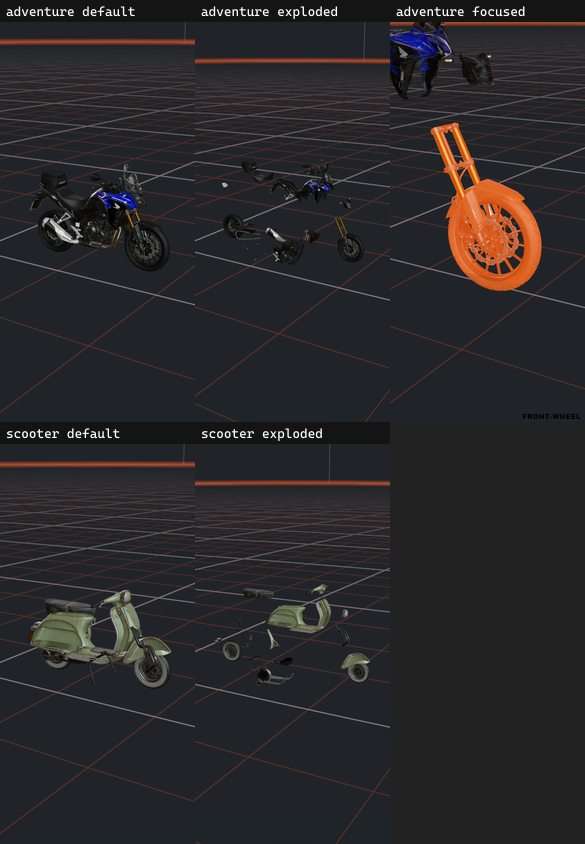
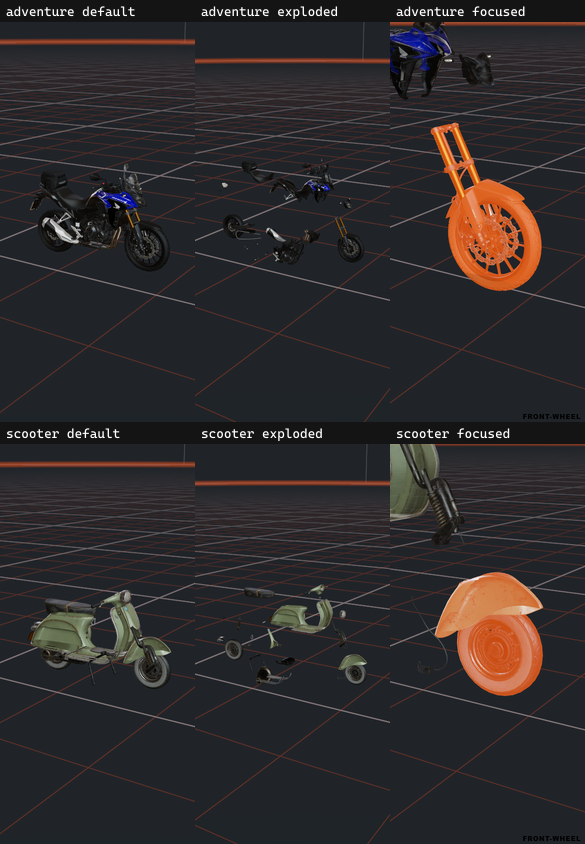
feat: exploding cruiser/touring/scooter/adventure models, 3d colours from theme tokens

diff --git a/docs/qa/3d-models.md b/docs/qa/3d-models.md
@@ -1,0 +1,269 @@
+# Replacing the four generics that could not explode — 2026-09-20
+
+`docs/qa/3d-parts.md` ends with four rows reading **1 group · no explode**: `generic/cruiser`,
+`generic/touring`, `generic/scooter`, `generic/adventure`. Those four were not a regex problem —
+the Harley Breakout was literally *one* mesh, the Vespa was seven material sweeps, and the Akt Tt
+Ds 200 had 84 good meshes and called every one of them `defaultMaterial`. No table can split
+geometry that was never split. They are replaced here, and the KTM's stray mesh is deleted.
+
+Selection rule, from `docs/qa/3d-parts.md`: **mesh count and node naming, never triangle count.**
+The measurement that decides it is "how many meshes span more than 60 % of the model" — a model
+whose meshes are all whole-bike sweeps is merged by material and cannot come apart, however many
+triangles it has.
+
+## Before → after
+
+| model | groups before | groups after | file | what it is now |
+| --- | --- | --- | --- | --- |
+| `generic/cruiser` | **1** | **18** | 0.95 → 6.67 MB | Harley EL OHV V-Twin, 429 separate meshes |
+| `generic/touring` | **1** | **14** | 4.48 → 2.17 MB | Harley Road King police bagger, 81 meshes |
+| `generic/scooter` | **1** | **15** | 1.18 → 1.66 MB | Vespa with a fully named node tree, 131 meshes |
+| `generic/adventure` | **1** | **13** | 0.93 → 3.13 MB | Honda CB500X, 121 meshes with Honda part names |
+| `generic/supermoto` | 14 | 14 | 0.41 → 0.38 MB | unchanged count; the stray mesh is gone, see below |
+
+Nothing else moved. `model-check --summary` for all 14 shipped models after the pass:
+
+```
+  yzf-2021              16      generic/enduro        10
+  honda-cbr650r         14      generic/motocross     14
+  corvette-c8           15      generic/naked         18
+  generic/adventure     13      generic/scooter       15
+  generic/car            7      generic/sportbike     19
+  generic/classic        4      generic/supermoto     14
+  generic/cruiser       18      generic/touring       14
+```
+
+`partfor-test.mjs` stays **93/93**. `viewer-shots.mjs --states` stays green. A headless load of
+each of the five changed models reports `state=ready`, the group count above and **no console
+errors** — the only failed request in the whole run is `/favicon.ico`, which viewer-test.html has
+never had and which predates this pass.
+
+```
+ok  supermoto   generic/supermoto  14 groups ·  43 meshes
+ok  scooter     generic/scooter    15 groups · 131 meshes
+ok  touring     generic/touring    14 groups ·  80 meshes
+ok  adventure   generic/adventure  14 groups · 121 meshes
+ok  cruiser     generic/cruiser    18 groups · 429 meshes
+```
+
+(The browser finds one group more on `adventure` than `model-check` does: the tool walks three
+levels of parent names and the viewer walks one, so on a model whose names sit on the parent node
+the two can differ by a group either way. The browser is the one that counts.)
+
+Sheets in `docs/qa/3d-models/`, default / exploded / focused at desktop and phone, from
+`viewer-shots.mjs --states3`:
+
+| sheet | shows |
+| --- | --- |
+| `states3-cruiser-touring.png` (+ `-phone`) | the two Harleys coming apart, front wheel lit |
+| `states3-scooter-adventure.png` (+ `-phone`) | the Vespa and the CB500X |
+| `states3-supermoto.png` | the KTM at full size, with the stray mesh deleted |
+
+## The four replacements
+
+### `generic/cruiser` — Harley Davidson Motorcycle "EL OHV V-TWIN"
+[matias_romero](https://sketchfab.com/matias_romero) · **CC BY 4.0** · 432k faces · 6.67 MB ·
+**1 → 18 groups**
+
+The best-structured vehicle in the whole CC pool: **429 separate meshes, none of them spanning
+more than 51 % of the bike**, and every node named `<object>_<Material>_0` where the material is
+the part — `Gas Tank`, `Front Fork`, `Exhaust Pipes`, `Engine Cylinders`, `Chain Accessories`,
+`Oil Tank and Battery`, `Circuit Breaker`, `Vent and Knuckleheads`. Sixteen groups fall out of the
+shared `BIKE_PARTS` table with no help at all.
+
+Eight pins in `parts.json` finish it. Both wheels are called "rear" by the author and all their
+hardware shares one material, so **the side is decided by position**, not by name: `Wheel Pieces`
+at x > +0.3 is the front wheel, at x < −0.3 the rear. `Brake Pedal` → `rear-brake`,
+`Circuit Breaker` + `Box Electrical` → `fuse` (a 1940s Harley's fuse is a circuit breaker),
+`Gear Shift` → `footpeg`, `Vent and Knuckleheads` → `engine`, `Toolbox` → `fairing`,
+`Cables and Tubes` + `Horn` → `frame`.
+
+Built at `--texture-size 768`, not 1024 — it carries **92 images**, and 1024 put the file at
+8.85 MB, over the 8 MiB target. 768 lands at 6.67 MB. Every other model here is built at 1024
+exactly as `CREDITS.md` specifies.
+
+*Not chosen:* **Harley Davidson Bike** (valerij1987, CC BY, 617k tris) has 400 meshes but only
+nine groups — its materials are `Tyres and Wheels`-style sweeps, not per-part names, and its
+source is 283 MB. **Harley-Davidson Police** (Comrade1280) is 81 `Object_N` meshes and became the
+*touring* pick instead. **ZMN 2K Classic Harley** is 17 `Object_N` meshes, 0 groups. The archive
+behind **Harley-Davidson Seventy-Two** is not a motorcycle at all — it unpacks to a Harley Quinn
+character.
+
+### `generic/touring` — Harley-Davidson Police
+[Comrade1280](https://sketchfab.com/Comrade1280) · **CC BY 4.0** · 651k tris · 2.17 MB ·
+**1 → 14 groups**
+
+A Road King bagger: hard panniers, windshield, big V-twin — the touring silhouette, and lighter
+on disk than the 4.48 MB Romanian Police it replaces. The node names are all `Object_N` and the
+materials are colours (`chrome`, `rubber`, `main_color`), but **80 of its 81 meshes are
+localised** — only the author's `floor` plane spans the model, and `strip.mjs` drops it (the
+bounding box goes 2946 × 1276 × 3667 → 820 × 1276 × 2031, i.e. the floor was more than half of
+what the viewer was normalising to).
+
+So every pin here was read off the viewer-frame table — node → centre x/y → what is at that place
+on a bagger. Front wheel and its brake at x +0.69, the front end and triple trees at +0.49, the
+white and orange lenses at +0.56, the fairing and light bar at +0.39, bars and gauges at +0.27,
+tank at +0.14, engine block at +0.04, frame at −0.20, exhaust run at −0.34, seat at −0.35, shocks
+at −0.45, rear wheel at −0.61, panniers at −0.65, tail lights at −0.88 to −0.96. 73 pins, 14
+groups.
+
+*Not chosen:* **Electra Glide Police L.A.** and **Road King Special** (both everhard, CC BY,
+313k / 164k faces) look the best of any candidate and cannot explode: 18 of 49 and 13 of 53 meshes
+span more than 60 % of the bike, because the export is merged by material. **Sport touring
+motorcycle HighPoly** (solid3DDD) is 24 meshes / 2 groups; **Yamaha Tracer 9** (alban) is 4;
+**BMW K1600 GTL** (appsnation) is 30 meshes in one group at 1.09M triangles; **STZ Motorbike**
+is 32 meshes of which 11 are sweeps; **Harley CVO Luxury Bagger** (Tulio Portela) is 3 meshes.
+
+### `generic/scooter` — Worn Out Old School Vespa
+[Jakob_Forseth](https://sketchfab.com/Jakob_Forseth) · **CC BY 4.0** · 80k tris · 1.66 MB ·
+**1 → 15 groups**
+
+QA-FINAL named the scooter specifically ("every scooter"), and this is the only Creative Commons
+scooter whose author named the parts. The mesh nodes are all `defaultMaterial`; the names live one
+level up, which is exactly the level `viewer3d.js::buildGroups` passes to `matchPart` —
+`Main_body_low`, `Seat_low`, `Front_Light_low`, `Speedomter_low`, `Front_Wheel_low`,
+`Back_Rim_low`, `Front_Hydrolics_low`, `Breaks_short_low`, `Exhaust_low`, `Motor_low`.
+
+Two things needed pinning. The author spells brake **"Break"**, so `Break_Output`, `Long_Break`
+and `Break_Pull*` are pinned to `front-brake` while `Break_low` — the lever, up on the bar at
+y +0.44 — goes to `handlebar`; the pins are written narrow enough that the lever is not swept up
+with the drum. And "Back", not "Rear", so `Back_Wheel_low` / `Back_Rim_low` / `Screws_Back` /
+`Bolts_Back` are pinned to `rear-wheel` and `Back_Hydrolic*` to `rear-shock`. `M_Case_L/R` and
+`Decorative_Line` are the side cowls → `fairing`, not engine.
+
+**Unfixable by name:** `Frame_low` and `Glass_low` each occur twice — once as the speedometer
+bezel at x +0.27 and once as the tail-light bezel at x −0.90 — so both pairs stay in the catch-all
+rather than being pinned to a group one of them does not belong to.
+
+*Not chosen:* **VESPA** (Stéphane Agullo, CC BY, 342k faces) was the runner-up and is genuinely
+good — 91 localised meshes with French part names (`GUIDON`, `FREIN`, `PHARE`, `CADRAN`, `BOUE`) —
+but two thirds of its nodes are `Object001…Object035` with nothing to read. **Vespa 150 highpoly**
+(Alex_Z) is 53 `Object_N` meshes / 0 groups; **Moped Vespa Piaggio Bravo** has 33 meshes and three
+named parents; **Vino** is 10 meshes; **SM Vintage Scooter 01** is 11.
+
+### `generic/adventure` — Honda CB500X
+[DevanirGrau](https://sketchfab.com/DevanirGrau) · **CC BY 4.0** · 457k faces · 3.13 MB ·
+**1 → 13 groups (14 in the browser)**
+
+The archetypal middleweight adventure bike — beak, tall screen, long-travel forks, top box — and
+it is also what `vehicle-type.js` matches on (`cb ?\d{3} ?x` is in the adventure rule). 121
+localised meshes carrying Honda's own part names in Portuguese and English: `STD_CB500X_Chain`,
+`BASE_CB500X_EngineA`, `BASE_CB500X_Radiator`, `STD_CB500X_Muffler`, `banco` (seat),
+`vidro_farol` (headlight glass), `piscas_traseiros` (rear indicators), `protetor_mao` (hand
+guard), `tanque_e_carenagem` (tank and bodywork).
+
+Eleven groups come free. Seventeen pins add the rest. The one that matters: the author reuses
+`STD_CB500X_BlinkersFront` for the **front** indicators at x +0.42 *and*
+`STD_CB500X_BlinkersFront001` for the **rear** ones at x −0.87, and `/indicator|blinker/` put both
+in `taillight` — i.e. the tail-light group lit up the front of the bike. The front set is pinned
+to `headlight`, which is where the YZF keeps its front indicator cluster too.
+
+**Two limits, both from the author's naming and neither fixable from `parts.json`:** the fork
+legs, triple clamp and front axle are all called `BASE_CB500X_FrontWheel006*`, and the front brake
+disc is `BASE_CB500X_FrontWheel007_1` with the material `disco_freio`. `front-wheel` is the first
+row of `BIKE_PARTS`, so a pin on a later row can never take a name away from it — the fork and the
+disc stay inside the front-wheel group. Over-inclusive, not wrong: focusing "front wheel" lights
+the whole front end. There is no `front-fork` or `front-brake` group on this model, which is the
+honest reading.
+
+*Not chosen:* **Basanti WIP 3** (Belzar Sirus, CC BY) is structurally the best adventure candidate
+found — 427 meshes, 17 groups, names down to `Brake Caliper Bracket` and `FrontBreakPadR` — but it
+is a work in progress: the Royal Enfield Himalayan it is modelling has no seat and no rear
+bodywork yet, just a bare subframe. **Honda Africa Twin** and **BMW F 650 GS** (alban) are 6 and 5
+meshes; **BMW R-1200-GS** (AXL) is 2; **BMW F650 GS** (switzerbaden) is 3; **Harley Scrambler
+Sportster** (Tulio Portela) is 3; **MOTORCYCLE** (Jelvehkar) is 75 meshes in 2 groups.
+
+## `generic/supermoto` — the stray mesh, deleted
+
+`docs/qa/3d-parts.md` logs it as a known cosmetic bug: `Cube.006_Redbull_0`, a 2 000-triangle
+detached piece sitting a bike-length behind the KTM, doubling the bounding box the viewer
+normalises to and so rendering the bike at half size.
+
+The source was re-fetched and the node dropped before the conversion. The bounding box is the
+proof, straight out of the strip step:
+
+```
+  before  span 0.767 x 1.346 x 4.892
+  after   span 0.767 x 1.346 x 2.378      <- the bike's own length
+  dropped 1: Cube.006_Redbull_0
+```
+
+Rebuilt exactly as `CREDITS.md` specifies: 0.41 MB → **0.38 MB**, still 14 groups, and
+`states3-supermoto.png` shows it filling the frame. The other `*_Redbull_*` nodes are real parts
+(the fork tubes, the graphics, the handlebar path) and are untouched.
+
+## Licences
+
+**All four replacements are CC BY 4.0 — no NC and no SA.** The generic roster is now 10 × CC BY
+and one CC BY-NC-SA (`naked`, the Ducati, which predates this pass). Every author's own
+`license.txt` from the Sketchfab archive ships next to its `model.glb`, and the credit lines in
+`web/store/models/CREDITS.md` were regenerated by `credits-generic.mjs` from the `source.json`
+files on disk — so the attribution is what is actually shipping, not what was typed.
+
+| type | model | author | licence |
+| --- | --- | --- | --- |
+| `cruiser` | Harley Davidson Motorcycle "EL OHV V-TWIN" | matias_romero | CC BY 4.0 |
+| `touring` | Harley-Davidson Police | Comrade1280 | CC BY 4.0 |
+| `scooter` | Worn Out Old School Vespa | Jakob_Forseth | CC BY 4.0 |
+| `adventure` | Honda CB500X | DevanirGrau | CC BY 4.0 |
+
+Total shipped generic weight: **21.7 MB** across 11 models, biggest file 6.67 MB — inside the
+25 MiB per-file cap with room to spare.
+
+## One change in the shared parts table
+
+`BIKE_PARTS` matched `engine` on `/cylinder/i`. Blender names every primitive it creates
+`Cylinder`, `Cylinder.001`, `Cylinder.002`, and a Sketchfab export keeps those names: on the
+Harley EL OHV **229 of its 429 meshes** are a numbered Blender cylinder — fenders, wheel spacers,
+the seat, the handlebars — and every one of them was being called the engine. That is the
+confident-wrong-answer failure the whole parts pass exists to remove, and a pin cannot fix it
+because `engine` sits above `seat`, `fuel-tank`, `handlebar` and `fairing` in the table.
+
+The regex is now `/cylinder(?![.\d])/i`: "Cylinder Head", "Engine_Cylinders" and
+"Cylinder_BLACK PLASTICS" still read as the engine; "Cylinder.002_Fenders_0" does not. Verified
+against every shipped model — `yzf-2021` 16, `honda-cbr650r` 14, `corvette-c8` 15, `motocross` 14,
+`sportbike` 19, `naked` 18, `supermoto` 14, `enduro` 10, `classic` 4, `car` 7 — all unchanged.
+`motocross` and `sportbike` both pin their own `Cylinder.*` nodes to `engine` explicitly in
+`parts.json`, so they never depended on the loose regex.
+
+## Also in viewer3d.js this pass: the stage colours follow the theme
+
+The 3D panel is the one surface in the app whose colours are not CSS, so it now fetches them.
+`docs/ui-themes.md` marks `--grid`, `--grid-bg` and `--accent` as **stage** tokens — declared in
+CSS, read by `js/viewer3d.js` — and `stageColor()` reads them at mount and again on the
+`mechanica:theme` event (using `detail.tokens` when the event carries them, `getComputedStyle`
+otherwise, and the shipped literals when neither resolves, which is the case in
+`counter/viewer-test.html` and `counter/solo.html` because neither loads `themes.css`).
+
+What follows the theme: the grid backdrop's three uniforms (`uInk` ← `--grid-bg`, `uLine` ←
+`--grid`, `uAccent` ← `--accent`), the highlight tint on a focused part, the x-ray material and
+the modelled garage's concrete (`--muted`). The highlight is re-derived from each **source**
+material on every change rather than lerped again, so five theme taps do not drift it somewhere no
+theme asked for. The listener is removed in `dispose()`.
+
+What deliberately does not follow the theme: the HDRI environments, the four lights and the studio
+sky gradient. Those light the vehicle, and tinting them would paint the bike a different colour
+per theme instead of restyling the panel around it.
+
+Verified with `theme-shots.mjs`: Night and Blueprint, both viewports, **10 stops each, 0 console
+errors**, and the Pick screen's grid is deep blue with cyan lines under Blueprint and near-black
+with grey-blue lines under Night. Workshop is pixel-identical by construction — `counter.css`
+declares `--grid: #b6bcc4`, `--grid-bg: #1a1f24`, `--accent: #e85d04`, which are the literals the
+panel shipped with. `viewer-shots.mjs --states` green.
+
+## Files touched
+
+- `web/store/models/generic/{cruiser,touring,scooter,adventure,supermoto}/model.glb`,
+  `license.txt`, `source.json`
+- `web/store/models/generic/parts.json` — `rotate` / `orient` / `extra` for the five
+- `web/store/models/CREDITS.md` — regenerated generic table and credit lines
+- `web/tools/model-shortlist.json` — the four new uids, titles, authors, licences, `orient`,
+  `rotate` and the reason each was picked, so a `models-fetch.mjs` re-run reproduces them
+- `web/counter/js/viewer3d.js` — the `cylinder` regex above, and the stage-colour theme reading.
+  Scene, loading, camera, explode, environment and idle-spin code untouched.
+- `docs/qa/3d-models.md`, `docs/qa/3d-models/states3-*.png`
+
+The raw Sketchfab downloads are **not** in the repo. `web/store/models/.gitignore` only ignores
+`*/scene.gltf`, which is one directory level and does not cover `generic/<type>/`, so the sources
+were converted from a scratch directory and only `model.glb`, `license.txt` and `source.json` were
+written into the tree.

diff --git a/web/store/models/CREDITS.md b/web/store/models/CREDITS.md
@@ -35,31 +35,31 @@ catalogues: the source groups say "bodyshell" and "misc_a", not verified service
 
 | type | model | author | licence | size | tris |
 | --- | --- | --- | --- | --- | --- |
-| `generic/adventure` | [Akt Tt Ds 200 repainted](https://sketchfab.com/3d-models/akt-tt-ds-200-repainted-c32f7b87090d4ce4b10c76e844dc86cd) | [e-restrepo1114](https://sketchfab.com/e-restrepo1114) | [CC BY 4.0](https://creativecommons.org/licenses/by/4.0/) | 0.93 MB | 27'830 |
+| `generic/adventure` | [Honda CB500X](https://sketchfab.com/3d-models/honda-cb500x-c2e1bff4afa34fc0b1957a5c418d666a) | [DevanirGrau](https://sketchfab.com/DevanirGrau) | [CC BY 4.0](https://creativecommons.org/licenses/by/4.0/) | 3.13 MB | 457'079 |
 | `generic/car` | [Mazda RX-7 FC](https://sketchfab.com/3d-models/mazda-rx-7-fc-8ac0df459f514950ab83ac37109a06ab) | [Lexyc16](https://sketchfab.com/Lexyc16) | [CC BY 4.0](https://creativecommons.org/licenses/by/4.0/) | 0.46 MB | 40'928 |
 | `generic/classic` | [Honda CB 750 F Super Sport 1970](https://sketchfab.com/3d-models/honda-cb-750-f-super-sport-1970-f121301624174b179ca4d50158797b03) | [ᗩᒪE᙭. Kᗩ.](https://sketchfab.com/alex_ka) | [CC BY 4.0](https://creativecommons.org/licenses/by/4.0/) | 0.41 MB | 37'041 |
-| `generic/cruiser` | [Harley Davidson Breakout](https://sketchfab.com/3d-models/harley-davidson-breakout-7d446ec9135c4e35892714d117b37268) | [FWSean](https://sketchfab.com/FWSean) | [CC BY 4.0](https://creativecommons.org/licenses/by/4.0/) | 0.95 MB | 79'417 |
+| `generic/cruiser` | [Harley Davidson Motorcycle "EL OHV V-TWIN"](https://sketchfab.com/3d-models/harley-davidson-motorcycle-el-ohv-v-twin-9923aaa519334f48b8dd44fd792475ed) | [matias_romero](https://sketchfab.com/matias_romero) | [CC BY 4.0](https://creativecommons.org/licenses/by/4.0/) | 6.67 MB | 394'242 |
 | `generic/enduro` | [Honda NXR Bros 2003](https://sketchfab.com/3d-models/none-2e88ff65e98e4d0c802242bdeccaf28d) | [andersonfo](https://sketchfab.com/andersonfo) | [CC BY 4.0](https://creativecommons.org/licenses/by/4.0/) | 1.91 MB | 43'771 |
 | `generic/motocross` | [2022 Yamaha YZ450F](https://sketchfab.com/3d-models/2022-yamaha-yz450f-dfff1637219f44d6bfa3ed3c9708d523) | [Res1n](https://sketchfab.com/Res1n) | [CC BY 4.0](https://creativecommons.org/licenses/by/4.0/) | 1.16 MB | 179'747 |
 | `generic/naked` | [2024 Ducati Streetfighter V4 S](https://sketchfab.com/3d-models/2024-ducati-streetfighter-v4-s-c501252f8af64c559bf91dc306c3a550) | [OUTPISTON](https://sketchfab.com/OUTPISTON) | [CC BY-NC-SA 4.0](https://creativecommons.org/licenses/by-nc-sa/4.0/) | 1.45 MB | 101'989 |
-| `generic/scooter` | [Vespa](https://sketchfab.com/3d-models/vespa-hp-5431bb42de5743088c849ba080e7ac33) | [fox_amelie](https://sketchfab.com/fox_amelie) | [CC BY 4.0](https://creativecommons.org/licenses/by/4.0/) | 1.18 MB | 130'883 |
+| `generic/scooter` | [Worn Out Old School Vespa](https://sketchfab.com/3d-models/worn-out-old-school-vespa-358a77040c53419b9bb50c462a160e6f) | [Jakob_Forseth](https://sketchfab.com/Jakob_Forseth) | [CC BY 4.0](https://creativecommons.org/licenses/by/4.0/) | 1.66 MB | 79'949 |
 | `generic/sportbike` | [Kawasaki Ninja ZX-6R](https://sketchfab.com/3d-models/kawasaki-ninja-zx-6r-4af2b6840b8045a5af5e8df8a85f04fa) | [valvetin](https://sketchfab.com/valvetin) | [CC BY 4.0](https://creativecommons.org/licenses/by/4.0/) | 2.33 MB | 335'509 |
-| `generic/supermoto` | [KTM REDBULL](https://sketchfab.com/3d-models/ktm-redbull-8d755ea9d6c249a29cf771a921116a41) | [LEKSA](https://sketchfab.com/LEKSA) | [CC BY 4.0](https://creativecommons.org/licenses/by/4.0/) | 0.41 MB | 52'638 |
-| `generic/touring` | [Romanian Police Motorbike](https://sketchfab.com/3d-models/romanian-police-motorbike-high-poly-3d-model-dac59dc8fa064ce380b14cb4ac0b5f99) | [solid3DDD](https://sketchfab.com/solid3DDD) | [CC BY 4.0](https://creativecommons.org/licenses/by/4.0/) | 4.48 MB | 782'500 |
+| `generic/supermoto` | [KTM REDBULL](https://sketchfab.com/3d-models/ktm-redbull-8d755ea9d6c249a29cf771a921116a41) | [LEKSA](https://sketchfab.com/LEKSA) | [CC BY 4.0](https://creativecommons.org/licenses/by/4.0/) | 0.38 MB | 52'638 |
+| `generic/touring` | [Harley-Davidson Police](https://sketchfab.com/3d-models/harley-davidson-police-79dc00298bf449d7bcfdf6eb32bd15ac) | [Comrade1280](https://sketchfab.com/Comrade1280) | [CC BY 4.0](https://creativecommons.org/licenses/by/4.0/) | 2.17 MB | 650'950 |
 
 Credit lines to reproduce wherever these are shown:
 
-> This work is based on "Akt Tt Ds 200 repainted" by e-restrepo1114, licensed under CC BY 4.0.
+> This work is based on "Honda CB500X" by DevanirGrau, licensed under CC BY 4.0.
 > This work is based on "Mazda RX-7 FC" by Lexyc16, licensed under CC BY 4.0.
 > This work is based on "Honda CB 750 F Super Sport 1970" by ᗩᒪE᙭. Kᗩ., licensed under CC BY 4.0.
-> This work is based on "Harley Davidson Breakout" by FWSean, licensed under CC BY 4.0.
+> This work is based on "Harley Davidson Motorcycle "EL OHV V-TWIN"" by matias_romero, licensed under CC BY 4.0.
 > This work is based on "Honda NXR Bros 2003" by andersonfo, licensed under CC BY 4.0.
 > This work is based on "2022 Yamaha YZ450F" by Res1n, licensed under CC BY 4.0.
 > This work is based on "2024 Ducati Streetfighter V4 S" by OUTPISTON, licensed under CC BY-NC-SA 4.0.
-> This work is based on "Vespa" by fox_amelie, licensed under CC BY 4.0.
+> This work is based on "Worn Out Old School Vespa" by Jakob_Forseth, licensed under CC BY 4.0.
 > This work is based on "Kawasaki Ninja ZX-6R" by valvetin, licensed under CC BY 4.0.
 > This work is based on "KTM REDBULL" by LEKSA, licensed under CC BY 4.0.
-> This work is based on "Romanian Police Motorbike" by solid3DDD, licensed under CC BY 4.0.
+> This work is based on "Harley-Davidson Police" by Comrade1280, licensed under CC BY 4.0.
 
 **1 of these are NC (non-commercial):** naked. Fine for the demo, swap before anything is sold.
 
